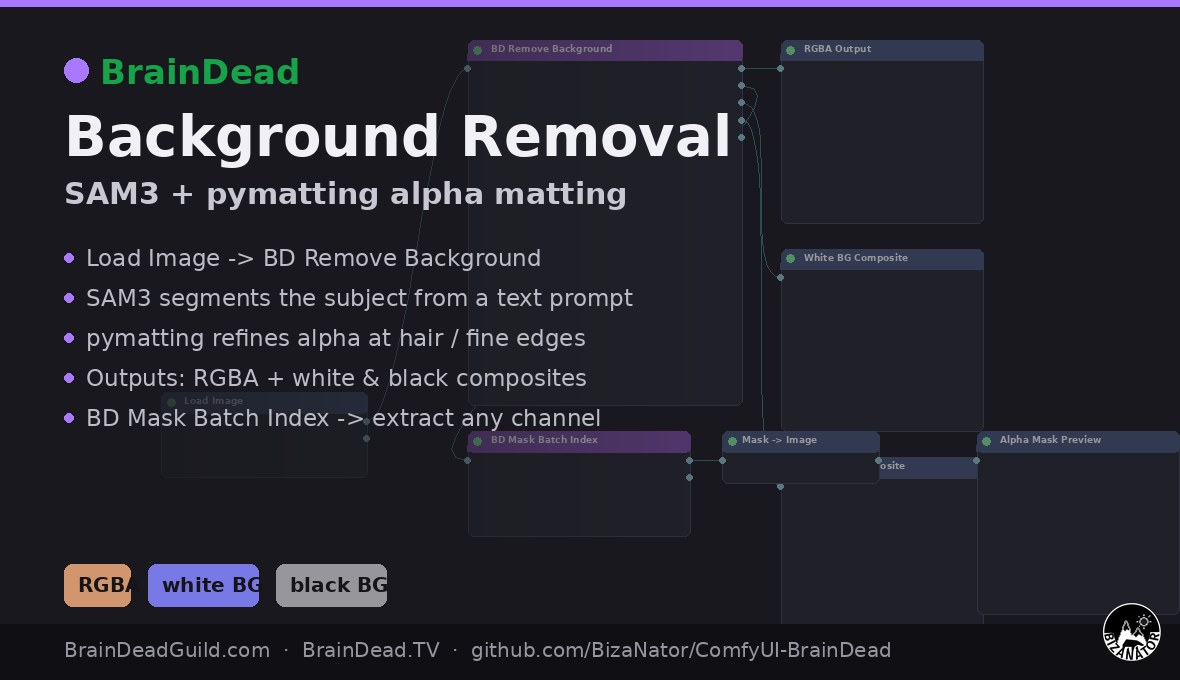
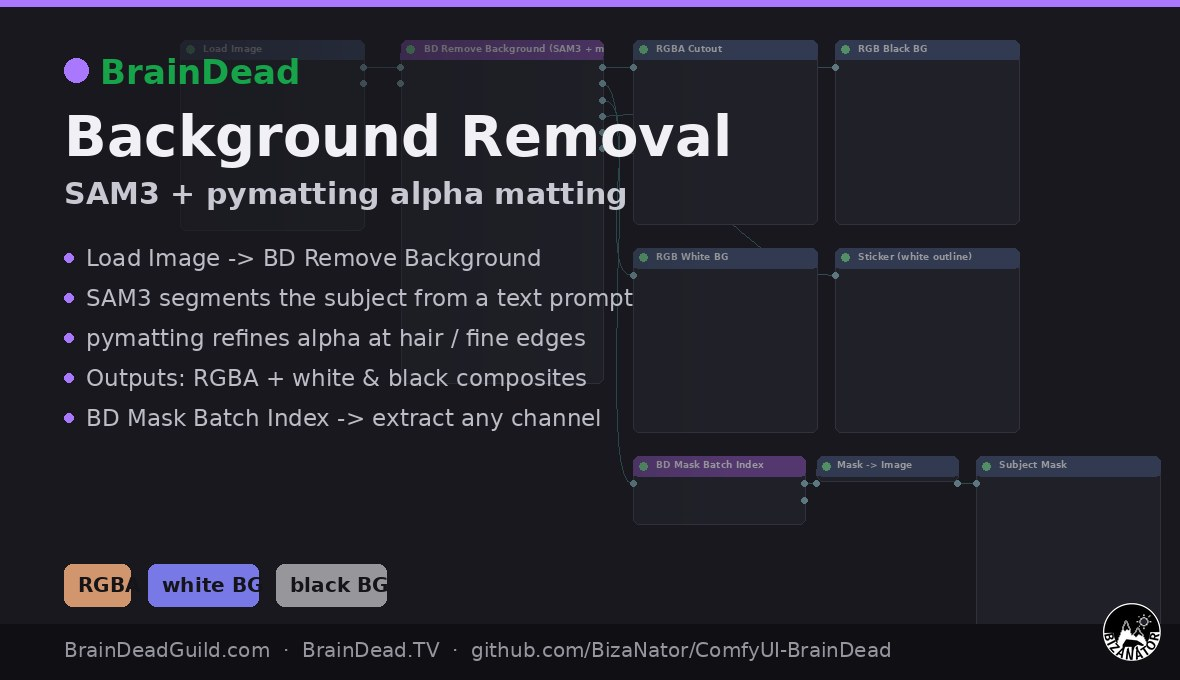
Docs: gallery + node table for new packing nodes; bump v1.3.0
README: add Game-Engine Packing + Atlas/Flipbook template cards (now 16
templates), node-table rows for BD Atlas Pack + BD Crop and Center already
present. Bump version 1.2.0 -> 1.3.0 so the Comfy Registry picks up the new
nodes (BD_AtlasPack, BD_CropAndCenter), the negative='background' default,
the channel-pack cutout fix, and the three new templates.

diff --git a/README.md b/README.md
@@ -22,7 +22,7 @@ AN internally-used node pack for Biloxi Studios designed to help with character,
 
 ## Workflow Templates
 
-Nine ready-to-use workflows ship in [`example_workflows/`](example_workflows/) and appear in ComfyUI under **Workflow → Browse Templates → ComfyUI-BrainDead**, each with a thumbnail and an in-canvas note.
+Sixteen ready-to-use workflows ship in [`example_workflows/`](example_workflows/) and appear in ComfyUI under **Workflow → Browse Templates → ComfyUI-BrainDead**, each with a thumbnail and an in-canvas note.
 
 <table>
 <tr>
@@ -103,6 +103,18 @@ Nine ready-to-use workflows ship in [`example_workflows/`](example_workflows/) a
 <img src="docs/images/workflow_pbr.jpg" width="100%" alt="Image to Full PBR"><br>
 <b>Image → Full PBR</b><br>
 <sub>Remove BG → Lotus-2 depth+normal → SAM3 metal → Derive PBR (albedo/normal/rough/metal/AO + ORM/ARM)</sub>
+</td>
+<td align="center" width="33%">
+<img src="docs/images/workflow_packing.jpg" width="100%" alt="Game-Engine Packing"><br>
+<b>Game-Engine Packing</b><br>
+<sub>Isolate parts → balance luma → crop & center → R/G/B channel pack (shared pivot, no bleed)</sub>
+</td>
+</tr>
+<tr>
+<td align="center" width="33%">
+<img src="docs/images/workflow_flipbook.jpg" width="100%" alt="Atlas / Flipbook"><br>
+<b>Atlas / Flipbook</b><br>
+<sub>Tile frames / packed textures into a grid sheet or sprite strip + per-cell UV layout</sub>
 </td>
 </tr>
 </table>